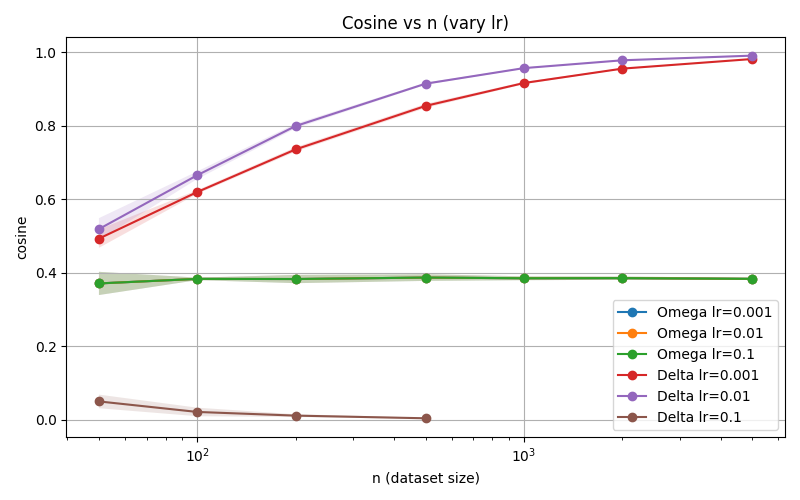
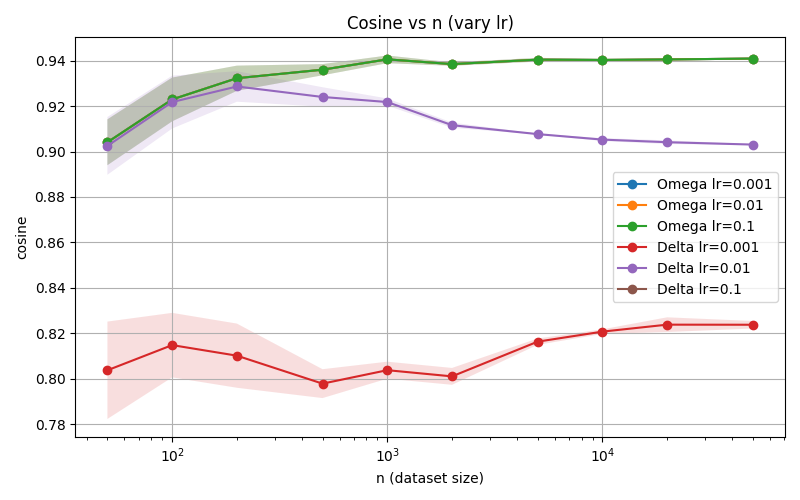
last change

diff --git a/src/data.py b/src/data.py
@@ -1,4 +1,5 @@
 import torch
+import numpy as np
 
 def generate_synthetic_data(mem_size, dim, steps, seed=None):
     """
@@ -21,3 +22,100 @@ def generate_synthetic_data(mem_size, dim, steps, seed=None):
     noise_std = 0.1
     values += noise_std * torch.randn_like(values)
     return keys, values
+
+# src/data.py
+import numpy as np
+import torch
+
+def generate_data(dim: int,
+                  steps: int,
+                  mem_size: int,
+                  dependency: str = "ar",   # "ar", "mix", "patterns"
+                  window: int = 5,
+                  alpha: float = 0.9,
+                  n_patterns: int = 10,
+                  noise_scale: float = 0.01,
+                  seed: int = 0):
+    """
+    Generate synthetic key-value sequences where keys are D-dimensional vectors
+    with temporal dependencies and values are mem_size-dimensional targets.
+
+    Returns:
+       keys: torch.Tensor shape (steps, dim), dtype=torch.float32
+       values: torch.Tensor shape (steps, mem_size), dtype=torch.float32
+
+    Parameters:
+       dependency:
+         - "ar": k_t = alpha * k_{t-1} + sqrt(1-alpha^2)*noise  (auto-regressive)
+         - "mix": k_t = sum_{i=0..window-1} w_i * z_{t-i} + noise  (linear mixture using past window)
+         - "patterns": emit one of n_patterns base vectors with short persistence
+       window:
+         - window length used both to generate keys (for "mix") and to build values
+           (values will depend on the last `window` keys by default).
+    """
+    rng = np.random.RandomState(seed)
+    dim_value = mem_size
+    max_window = max(1, window)
+
+    # ---- Generate keys (shape: steps x dim) ----
+    if dependency == "ar":
+        keys = np.zeros((steps, dim), dtype=np.float32)
+        keys[0] = rng.normal(scale=1.0, size=(dim,))
+        # keep variance stable: scale noise by sqrt(1-alpha^2)
+        noise_scale_ar = np.sqrt(max(0.0, 1.0 - alpha ** 2))
+        for t in range(1, steps):
+            noise = rng.normal(scale=noise_scale_ar, size=(dim,))
+            keys[t] = alpha * keys[t-1] + noise
+
+    elif dependency == "mix":
+        # create base noise stream z_t (we'll index z[t] as current, z[t-1] as previous)
+        z = rng.normal(size=(steps + max_window, dim)).astype(np.float32)
+        # weights decaying for the past window (w[0] corresponds to most recent z[t])
+        w = np.array([np.exp(-i / (max_window / 2.0)) for i in range(max_window)], dtype=np.float32)
+        w = w / (w.sum() + 1e-12)
+        keys = np.zeros((steps, dim), dtype=np.float32)
+        for t in range(steps):
+            mix = np.zeros(dim, dtype=np.float32)
+            # use past values z[t - i], but offset index so we don't go negative
+            for i in range(max_window):
+                mix += w[i] * z[t + max_window - 1 - i]   # z[...] aligned so first steps have values
+            keys[t] = mix + noise_scale * rng.normal(size=(dim,))
+
+    elif dependency == "patterns":
+        base = rng.normal(size=(n_patterns, dim)).astype(np.float32)
+        q, _ = np.linalg.qr(base.T)
+        patterns = q.T[:n_patterns]
+        keys = np.zeros((steps, dim), dtype=np.float32)
+        current = rng.randint(n_patterns)
+        persistence = max(1, max_window // 2)
+        for t in range(steps):
+            if rng.rand() < 0.1:
+                current = rng.randint(n_patterns)
+            keys[t] = patterns[current] + noise_scale * rng.normal(size=(dim,))
+            if (t % persistence) == 0 and rng.rand() < 0.2:
+                current = rng.randint(n_patterns)
+    else:
+        raise ValueError("Unknown dependency type: choose 'ar','mix' or 'patterns'")
+
+    # --- create values that depend on the window of keys ---
+    # Pad keys so we can always take a full 'max_window' window ending at t
+    padded = np.vstack([np.zeros((max_window - 1, dim), dtype=np.float32), keys])  # shape: (steps+max_window-1, dim)
+
+    # We'll map concat(window * dim) -> mem_size with a random linear transform + small noise.
+    W_big = rng.normal(scale=0.05, size=(max_window * dim, dim_value)).astype(np.float32)
+    values = np.zeros((steps, dim_value), dtype=np.float32)
+    for t in range(steps):
+        window_vec = padded[t : t + max_window].reshape(-1)  # length = max_window * dim
+        values[t] = window_vec.dot(W_big) + 0.01 * rng.normal(size=(dim_value,))
+
+    # convert to torch tensors for direct use in training
+    keys_t = torch.from_numpy(keys).to(dtype=torch.float32)
+    values_t = torch.from_numpy(values).to(dtype=torch.float32)
+
+    return keys_t, values_t
+
+
+# quick local test
+if __name__ == "__main__":
+    ks, vs = generate_data(dim=64, steps=1000, mem_size=128, dependency="mix", window=8, seed=42)
+    print("keys", ks.shape, "values", vs.shape)

diff --git a/src/train.py b/src/train.py
@@ -1,6 +1,6 @@
 import torch
 import time
-from src.data import generate_synthetic_data
+from src.data import generate_data
 from src.updaters import DeltaUpdater, OmegaUpdater
 
 def train_model(mem_size, dim, window, steps, lr, reg, seed, updater_type):
@@ -9,7 +9,7 @@ def train_model(mem_size, dim, window, steps, lr, reg, seed, updater_type):
     Returns metrics: mse_mean, cos_mean, update_time, mem_norm_change
     """
     # Sinh dữ liệu tổng hợp
-    keys, values = generate_synthetic_data(mem_size, dim, steps, seed=seed)
+    keys, values = generate_data(mem_size=mem_size, dim=dim, steps=steps, seed=seed, window=window, alpha=0.95)
     torch.manual_seed(seed)
     # Khởi tạo memory (ma trận trọng số) ban đầu bằng 0
     memory = torch.zeros(mem_size, dim)

diff --git a/README.md b/README.md
@@ -101,7 +101,7 @@ python3 -m src.plot_results
     cho nhiều `n`:
 
 ``` bash
-python3 -m src.plot_sensitivity
+python plot_sensitivity
 ```
 
 Các plot sẽ được lưu vào `results/plots/` (hoặc nơi script chỉ định).
